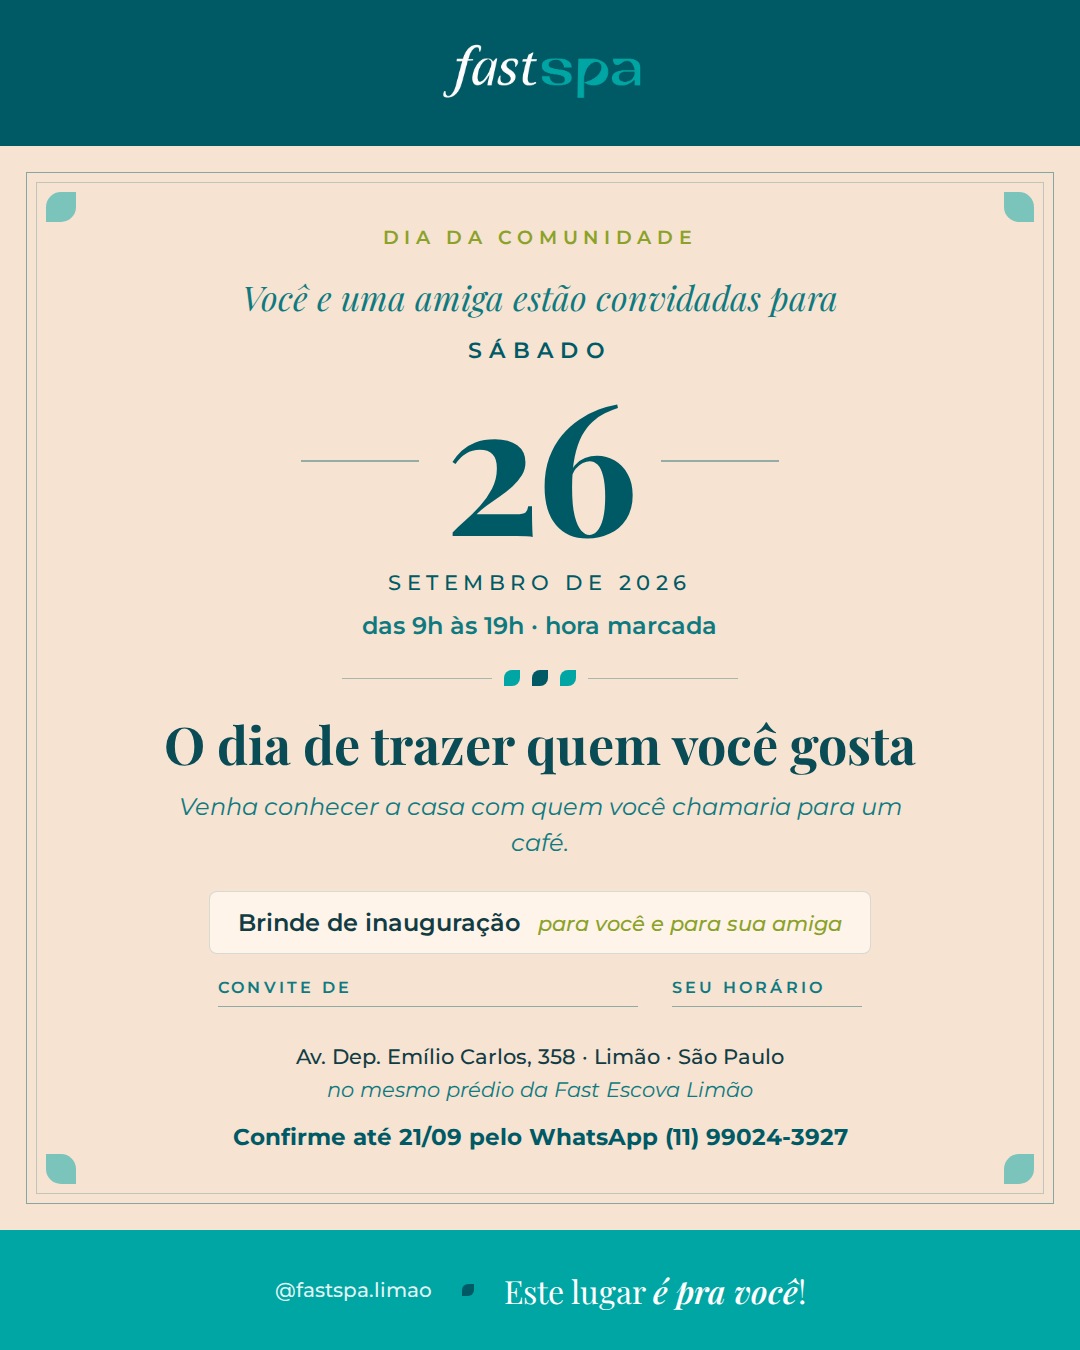
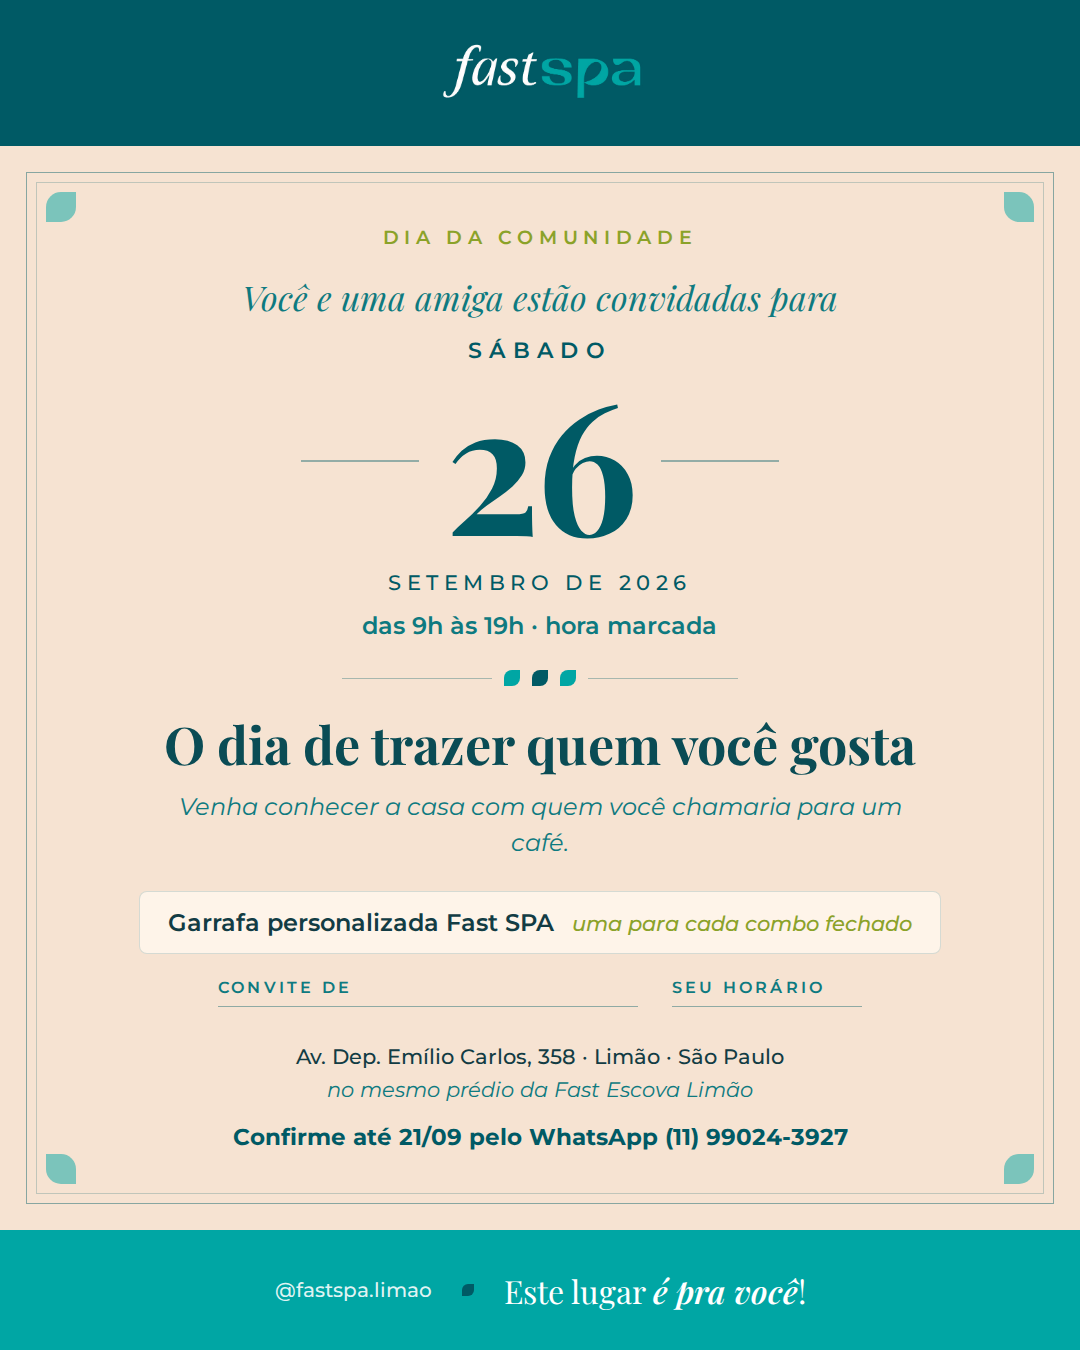
content: garrafa personalizada atrelada à compra de combo
O brinde dos dias 25 a 27 passa a ser a garrafa personalizada Fast SPA
entregue a quem fechar um combo, e não a quem comparece. As artes e os
textos de WhatsApp deixam de prometer brinde por presença.

Ajusta o comparecimento desses dias de 55% para 50% (nada gratuito por
comparecer), de ~177 para ~165 presenças, e troca a conta de estoque de
brindes pela de garrafas por conversão em combo: ~25 combos esperados,
40 garrafas a produzir. Inclui os dois combos da tabela e seus valores.

Claude-Session: https://claude.ai/code/session_01RuVKoBzerrtwzTvPt2dZAB

Changed region(s): [[0.1528, 0.6533, 0.4278, 0.7156], [0.4583, 0.6533, 0.825, 0.7156]]

diff --git a/docs/convites/gerar_convites.py b/docs/convites/gerar_convites.py
@@ -36,8 +36,8 @@ CARDS = [
         dow="sexta-feira", num="25", mes="setembro de 2026", horas="das 10h às 20h · hora marcada",
         titulo="O dia das clientes de casa",
         sub="O SPA abre primeiro para quem já é da Fast, antes do bairro.",
-        cortesia="Brinde de inauguração",
-        cortesia_dir="para quem confirmar presença",
+        cortesia="Garrafa personalizada Fast SPA",
+        cortesia_dir="para quem fechar um combo",
         campo="Convite de", campo2="seu horário",
     ),
     dict(
@@ -47,8 +47,8 @@ CARDS = [
         dow="sábado", num="26", mes="setembro de 2026", horas="das 9h às 19h · hora marcada",
         titulo="O dia de trazer quem você gosta",
         sub="Venha conhecer a casa com quem você chamaria para um café.",
-        cortesia="Brinde de inauguração",
-        cortesia_dir="para você e para sua amiga",
+        cortesia="Garrafa personalizada Fast SPA",
+        cortesia_dir="uma para cada combo fechado",
         campo="Convite de", campo2="seu horário",
     ),
     dict(
@@ -58,8 +58,8 @@ CARDS = [
         dow="domingo", num="27", mes="setembro de 2026", horas="das 10h às 17h · por ordem de chegada",
         titulo="O domingo em que o SPA é do bairro",
         sub="Sem hora marcada: é chegar, pegar sua senha e conhecer a casa.",
-        cortesia="Brinde de inauguração",
-        cortesia_dir="enquanto durar o estoque",
+        cortesia="Garrafa personalizada Fast SPA",
+        cortesia_dir="para quem fechar um combo",
         campo="Convite de", campo2="",
     ),
 ]

diff --git a/docs/inauguracao-spa-2026.md b/docs/inauguracao-spa-2026.md
@@ -33,23 +33,24 @@ painel: https://claude.ai/code/artifact/d3d9ad76-e084-4218-9567-6514d4b0d4bb
 | Dia | Formato | Público | Convites | Presença est. |
 |---|---|---|---|---|
 | **Qui 24/09** · 18h–22h | Coquetel, corte de fita 19h30, tour, 2 estações de demonstração (10 min) — **único dia com cortesia** | Franqueadora, sócios, fornecedores, imprensa e perfis do bairro, 10 influenciadoras, comércio vizinho, equipe e família | 70 | ~50 |
-| **Sex 25/09** · 10h–20h | Hora marcada, tour, conversa com a equipe, welcome drink e **brinde** | Top 20% da base da Escova + 10 lugares da franqueadora | 60 | ~33 |
-| **Sáb 26/09** · 9h–19h | Blocos de 30 min, música, mini-bar, **brinde para cada uma**, mecânica "traga uma amiga" | Clientes ativas da Escova (visita ≤60d) + 1 acompanhante cada | 80 (40+40) | ~44 |
-| **Dom 27/09** · 10h–17h | Sem hora marcada, senha por ordem de chegada, tour curto e **brinde** | Base inativa (60–180d), lista do Instagram, vizinhança, quem passou na porta | 90 | ~50 |
+| **Sex 25/09** · 10h–20h | Hora marcada, tour, conversa com a equipe, welcome drink e oferta de combo | Top 20% da base da Escova + 10 lugares da franqueadora | 60 | ~30 |
+| **Sáb 26/09** · 9h–19h | Blocos de 30 min, música, mini-bar, oferta de combo, mecânica "traga uma amiga" | Clientes ativas da Escova (visita ≤60d) + 1 acompanhante cada | 80 (40+40) | ~40 |
+| **Dom 27/09** · 10h–17h | Sem hora marcada, senha por ordem de chegada, tour curto e oferta de combo | Base inativa (60–180d), lista do Instagram, vizinhança, quem passou na porta | 90 | ~45 |
 
-**Total: 300 convites nominais → ~177 presenças.**
+**Total: 300 convites nominais → ~165 presenças.**
 A quinta usa **70%** de comparecimento (convite institucional, com cortesia).
-Sexta, sábado e domingo usam **55%**: convite com brinde puxa menos gente do que
-convite com serviço gratuito. É a conta realista, não a otimista — se quiser as
-~210 presenças do plano original, aumente os convites em cerca de 25% nesses três dias.
+Sexta, sábado e domingo usam **50%**: nesses dias a convidada não ganha nada só por
+comparecer — a garrafa está atrelada à compra de um combo. É a conta realista, não a
+otimista. Para subir, ou aumenta o volume de convites (~25% a mais) ou entra um
+mimo pequeno de chegada (uma água saborizada, uma amostra) que não custe margem.
 
 ### Por que cada dia é assim
 
 - **Quinta** — quem vem por relação, não por serviço. Não ocupa cadeira e gera conteúdo
   para os três dias seguintes.
 - **Sexta** — é o dia que vira receita recorrente. Sem cortesia, a venda acontece na
-  conversa: tour, equipe apresentando os protocolos e uma condição de inauguração
-  na mão. É também o dia da foto oficial: não pode estar vazio.
+  conversa: tour, equipe apresentando os protocolos e o combo com a garrafa como
+  fechamento. É também o dia da foto oficial: não pode estar vazio.
 - **Sábado** — dia de maior fluxo natural. A acompanhante é lead novo com prova social
   embutida (chega já ouvindo elogio de quem confia na casa).
 - **Domingo** — não canibaliza a agenda da Escova e absorve volume sem risco de frustrar VIP.
@@ -74,25 +75,35 @@ convite com serviço gratuito. É a conta realista, não a otimista — se quise
 
 ---
 
-## 4. As duas contas de capacidade
+## 4. As duas contas que importam
 
-Com cortesia só na quinta, a restrição muda de dia para dia: **na quinta o gargalo é a
-cadeira; de sexta a domingo é o estoque de brindes.**
+Com cortesia só na quinta e a garrafa atrelada ao combo, a restrição muda de dia para
+dia: **na quinta o gargalo é a cadeira; de sexta a domingo o número que importa é
+quantos combos a equipe fecha.**
 
 ```
 QUI 24 · experiencias = estacoes × (horas × 60 ÷ duracao) × 0,8
-SEX a DOM · brindes   = presenca_esperada × 1,15
+SEX a DOM · garrafas  = presencas × taxa_de_conversao_em_combo
 ```
 
 **Quinta (premissa: 4 estações, sessões de 10 min):**
 4 × (4h × 60 ÷ 10) × 0,8 = **76 experiências possíveis** para ~50 presentes.
 Cabe todo mundo com folga. O `0,8` é a folga de troca, atraso e limpeza.
 
-**Sexta a domingo:** 33 + 44 + 50 = 127 presenças esperadas → **150 brindes**.
-Se a quinta também levar brinde, some ~60: **210 no total**.
+**Garrafas:** 165 presenças × 15% de conversão ≈ **25 combos**.
+Mande fazer **40 garrafas** — a margem cobre um sábado acima da média, e a sobra
+continua valendo: como a garrafa está presa à compra, não vira encalhe, vira
+gatilho de venda no mês seguinte.
 
-> ⚠ Brinde que acaba no meio do sábado transforma convite em frustração.
-> Compre por cima — sobra vira mimo de aniversário no mês seguinte.
+**Onde a garrafa fica:** à vista, na recepção, com o preço do combo escrito ao lado.
+Brinde que ninguém vê não vende combo.
+
+### Combos da tabela oficial
+
+| Combo | O que inclui | Valor |
+|---|---|---|
+| **Fast Spa Detox** | Limpeza de pele Super VIP + Máscara de LED + Fast Spa Detox + Drenagem Linfática Facial (15min) | R$ 457,00 |
+| **Fast Spa Casual** | Limpeza de pele Super VIP + Máscara de LED + Fast Spa Casual + Quick Massage | R$ 437,00 |
 
 ---
 
@@ -105,7 +116,7 @@ Se a quinta também levar brinde, some ~60: **210 no total**.
 | Sexta com <30 confirmações até 21/09 | Puxe 15 nomes do topo da lista F para a sexta e reponha o sábado com a lista G. Sexta vazia é o pior cenário. |
 | Domingo com fila na porta | Senha numerada + cadastro no WhatsApp na entrada. Quem não for atendido sai com **voucher datado** para a semana seguinte. |
 | Sobra de capacidade em qualquer dia | Libere no Stories com 3h de antecedência: "10 lugares abertos hoje até 17h". Lugar vazio não volta. |
-| **Sem cortesia, o que converte** | De sexta a domingo a convidada não experimenta o serviço — a conversão depende da oferta feita dentro da casa. Tenha uma **condição de inauguração** pronta e escrita (pacote ou valor de primeira sessão) para quem agendar na hora. Sem ela, a convidada sai só com o brinde. |
+| **A oferta que converte** | De sexta a domingo a convidada não experimenta o serviço: quem converte é a equipe. Combo Fast Spa Detox (R$ 457) e Combo Fast Spa Casual (R$ 437), com a **garrafa personalizada** como fechamento. Todo mundo do time precisa saber os dois preços de cor e **mostrar a garrafa antes de falar o valor**. |
 
 ---
 
@@ -168,10 +179,9 @@ Assinatura de rodapé: *Este lugar é pra você!* — a mesma da tabela.
 > Para peça grande ou impressa, pedir o **logo vetorial** (AI/SVG/EPS) à franqueadora:
 > o recorte atual é raster e só aguenta bem até o tamanho usado aqui.
 
-**Cortesia x brinde:** só a **quinta 24/09** tem experiência-cortesia. De sexta a
-domingo a peça anuncia **brinde de inauguração** — nenhuma arte promete serviço
-gratuito nesses dias. Definir qual é o brinde e me mandar: com o nome do item
-("kit de amenities", "máscara facial", "voucher de R$ X") a taxa de resposta sobe.
+**Cortesia x garrafa:** só a **quinta 24/09** tem experiência-cortesia. De sexta a
+domingo as peças anunciam a **garrafa personalizada Fast SPA para quem fechar um
+combo** — nenhuma arte promete serviço gratuito nem brinde por comparecer.
 
 Para regerar as artes (se mudar horário, texto ou logo): edite
 `docs/convites/gerar_convites.py` e rode `python3 docs/convites/gerar_convites.py`
@@ -212,7 +222,9 @@ Abrimos o Fast SPA Limão e sexta, 25/09, é o dia reservado para as clientes de
 — antes de abrir para o bairro.
 
 Separei um horário no seu nome: [HORA], para você conhecer a casa, falar com a
-equipe e tomar um café com a gente. Tem um brinde de inauguração te esperando.
+equipe e tomar um café com a gente.
+
+Quem fechar um combo na inauguração leva a garrafa personalizada do Fast SPA.
 
 Responda 1 para confirmar esse horário ou 2 para escolher outro.
 ```
@@ -221,8 +233,9 @@ Responda 1 para confirmar esse horário ou 2 para escolher outro.
 ```
 [Nome], sábado 26/09 o Fast SPA Limão abre para você e uma amiga 🧖♀
 
-Venham conhecer a casa nova no seu horário: [HORA]. Tem música, mini-bar e um
-brinde de inauguração para cada uma.
+Venham conhecer a casa nova no seu horário: [HORA]. Tem música, mini-bar e
+condição de inauguração nos combos — quem fechar leva a garrafa personalizada
+do Fast SPA.
 
 Av. Dep. Emílio Carlos, 358 · Limão
 (no mesmo prédio da Fast Escova)
@@ -234,8 +247,8 @@ Responda 1 com o nome da amiga ou 2 se preferir domingo.
 ```
 [Nome], domingo 27/09 o Fast SPA Limão abre para o bairro, das 10h às 17h.
 
-Sem hora marcada: é chegar, pegar sua senha, conhecer a casa e sair com um
-brinde de inauguração.
+Sem hora marcada: é chegar, pegar sua senha e conhecer a casa. Quem aproveitar a
+condição de inauguração nos combos leva a garrafa personalizada do Fast SPA.
 
 Av. Dep. Emílio Carlos, 358 · Limão
 (no mesmo prédio da Fast Escova)
